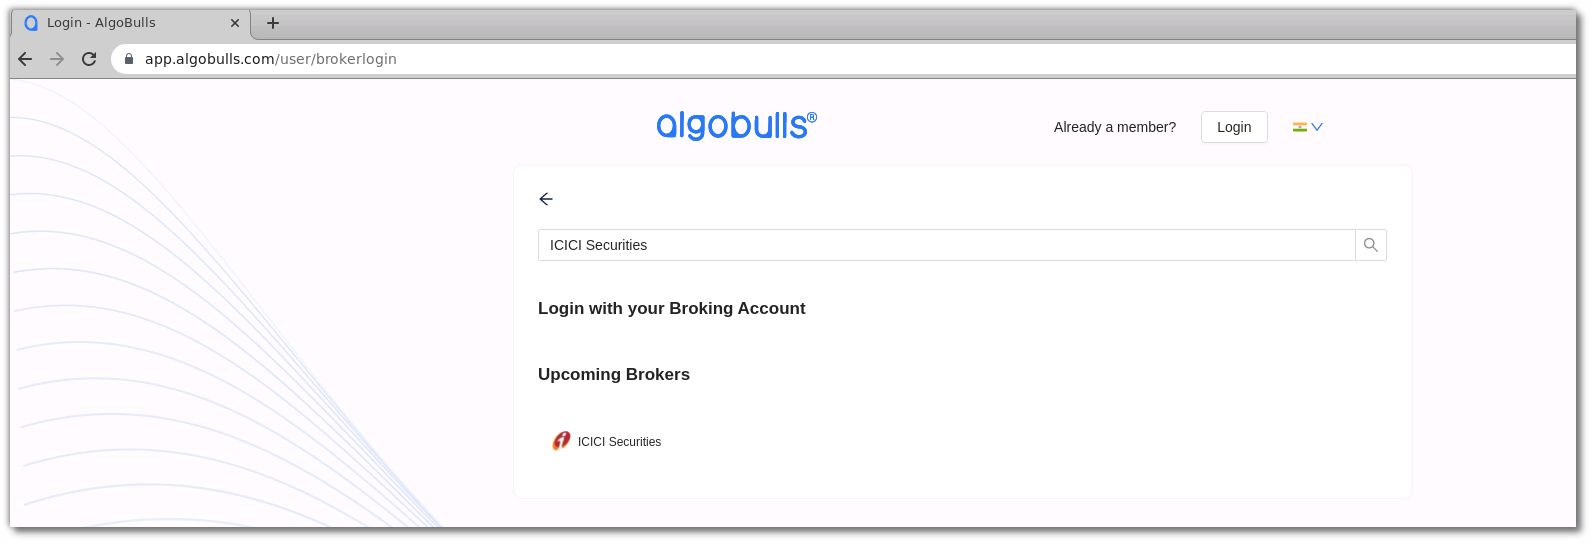
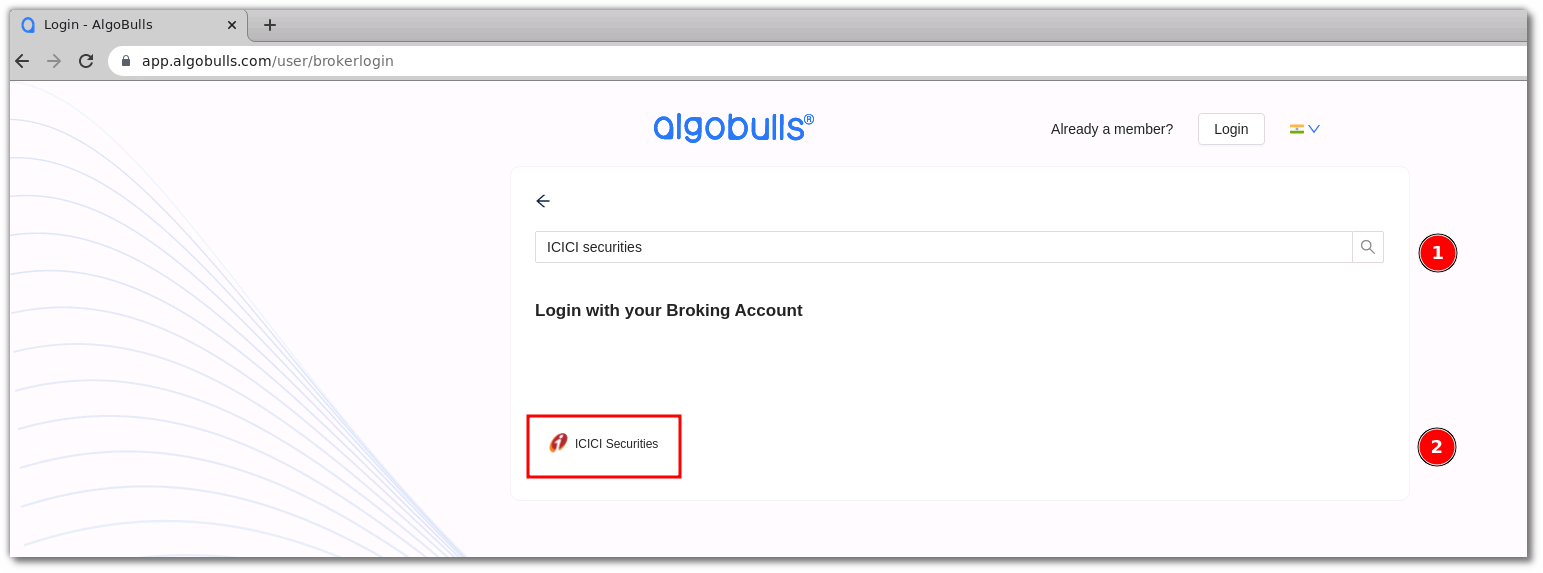
adding to icici securities helpsite page

diff --git a/docs/broker/icicisecurities.md b/docs/broker/icicisecurities.md
@@ -58,7 +58,7 @@ This activity will help you to link your broking account to the AlgoBulls accoun
 [ ![isec](imgs/icici_securities/submit.png "Click to Enlarge or Ctrl+Click to open in a new Tab") ](imgs/icici_securities/submit.png)
 
 
-* Now Copy and Save API key and Secret Key
+* Now Copy and Save APP key and Secret Key
 
 [ ![isec](imgs/icici_securities/save.png "Click to Enlarge or Ctrl+Click to open in a new Tab") ](imgs/icici_securities/save.png)
 
@@ -95,48 +95,55 @@ This activity will help you to link your broking account to the AlgoBulls accoun
 
 (1). Type the first few characters of your Broker Name
 (2). Select the `ICICI Securities` broker
-(3). Click on the `Login with ICICI Securities` button
 
 [ ![isec](imgs/icici_securities/select_broker.png "Click to Enlarge or Ctrl+Click to open in a new Tab") ](imgs/icici_securities/select_broker.png)
 
-# DONE TILL HERE
+Now visit [https://www.urlencoder.org/](https://www.urlencoder.org/) and type your 'API key' in the box
 
-Now paste your saved API key in the URL
+[ ![isec](imgs/icici_securities/encode_one.png "Click to Enlarge or Ctrl+Click to open in a new Tab") ](imgs/icici_securities/encode_one.png)
+
+click on `Encode` and encoded key will appear in box below 
+Copy the Encoded key
+
+[ ![isec](imgs/icici_securities/encode_two.png "Click to Enlarge or Ctrl+Click to open in a new Tab") ](imgs/icici_securities/encode_two.png)
+
+Now paste your Encoded key in the URL
 
 Example: If the API key is uS3r@piKey and the URL is:
 
 ```html
 https://api.icicidirect.com/apiuser/login?api_key=placeapikeyhere
-https://kite.zerodha.com/connect/login?api_key=pleaseenteryourapikey
+
 ```
-
-[ ![isec](imgs/icici_securities/zerodha_oauth_2.png "Click to Enlarge or Ctrl+Click to open in a new Tab") ](imgs/icici_securities/zerodha_oauth_2.png)
-
 then the new URL will be:
 
 ```html
-https://kite.zerodha.com/connect/login?api_key=uS3r@piKey
+https://api.icicidirect.com/apiuser/login?api_key=uS3r@piKey
 ```
 
-[ ![isec](imgs/icici_securities/zerodha_oauth_3.png "Click to Enlarge or Ctrl+Click to open in a new Tab") ](imgs/icici_securities/zerodha_oauth_3.png)
+[ ![isec](imgs/icici_securities/key.png "Click to Enlarge or Ctrl+Click to open in a new Tab") ](imgs/icici_securities/key.png)
 
 Press Enter after modifying the URL with your API key
 
 Now provide data for the following fields:
 
-(4). User ID: The ID given to you by your broker
+(3). User ID: The ID given to you by your broker
 
-(5). Password: The password given to you by the broker
+(4). Password: The password given to you by the broker
 
-(6). Click `Login` button
+(5). DOB/PAN: Add Date Of Birth or PAN number
 
-[ ![isec](imgs/icici_securities/zerodha_oauth_4.png "Click to Enlarge or Ctrl+Click to open in a new Tab") ](imgs/icici_securities/zerodha_oauth_4.png)
+(6). Agree to terms and conditions
 
-(7). PIN: The PIN given to you by the broker
+(7). Click `Submit` button
 
-(8). Click `Continue` button
+[ ![isec](imgs/icici_securities/login_again.png "Click to Enlarge or Ctrl+Click to open in a new Tab") ](imgs/icici_securities/login_again.png)
 
-[ ![isec](imgs/zerodha/zerodha_oauth_5.png "Click to Enlarge or Ctrl+Click to open in a new Tab") ](imgs/icici_securities/zerodha_oauth_5.png)
+
+#DONE TILL HERE
+
+
+
 
 !!! Note
 
